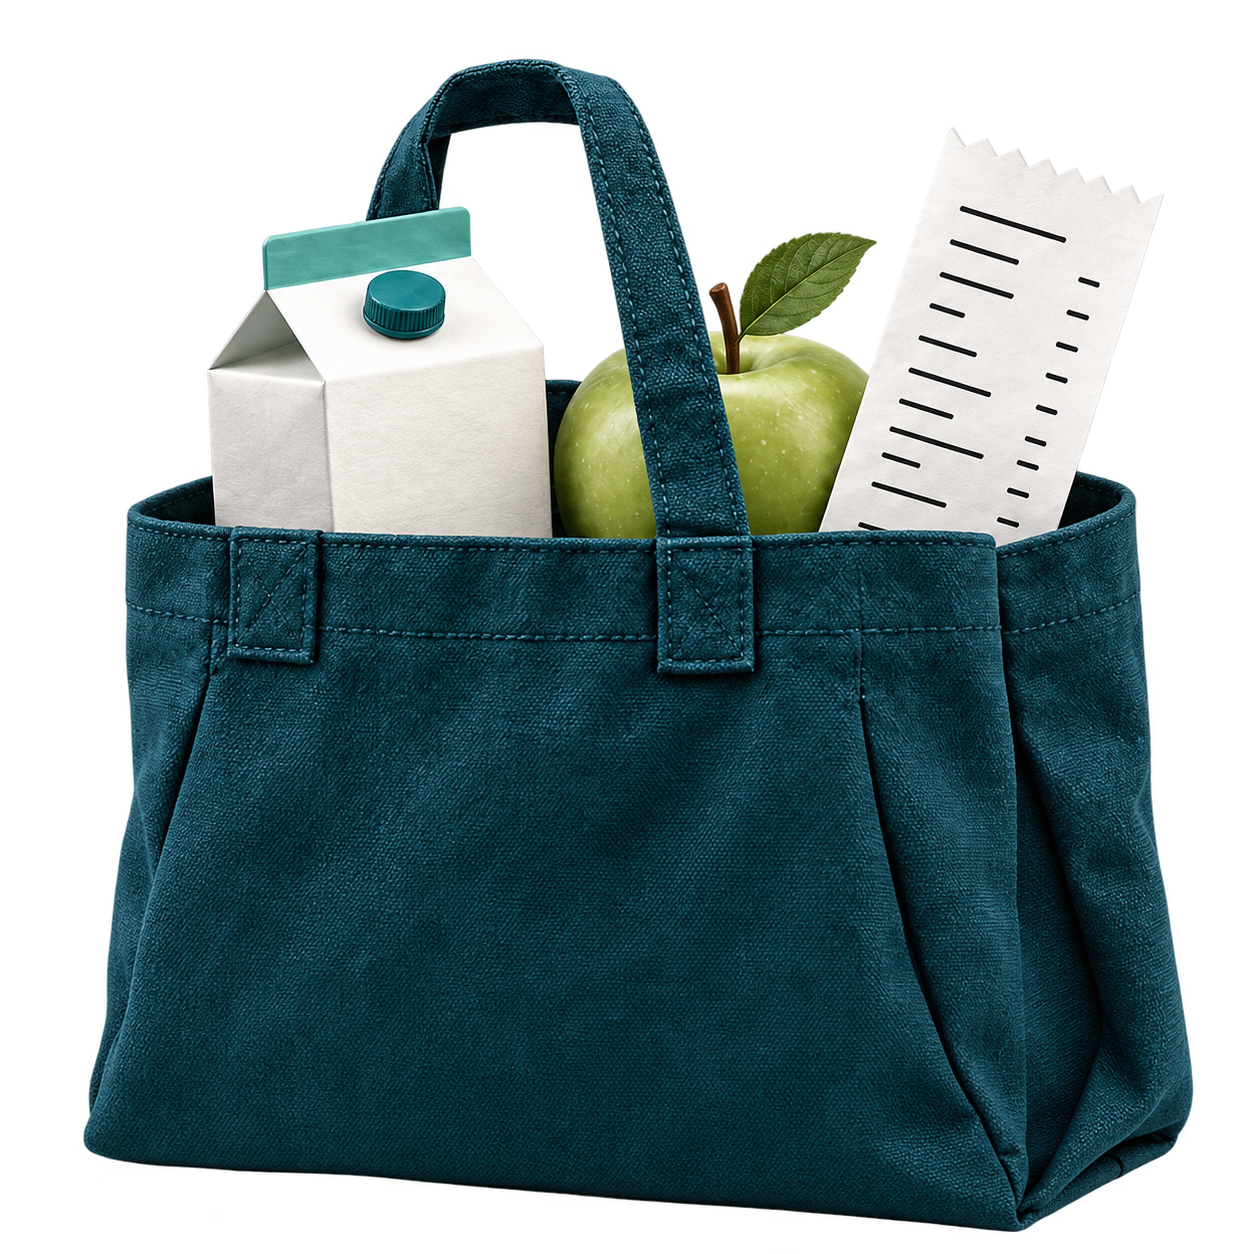
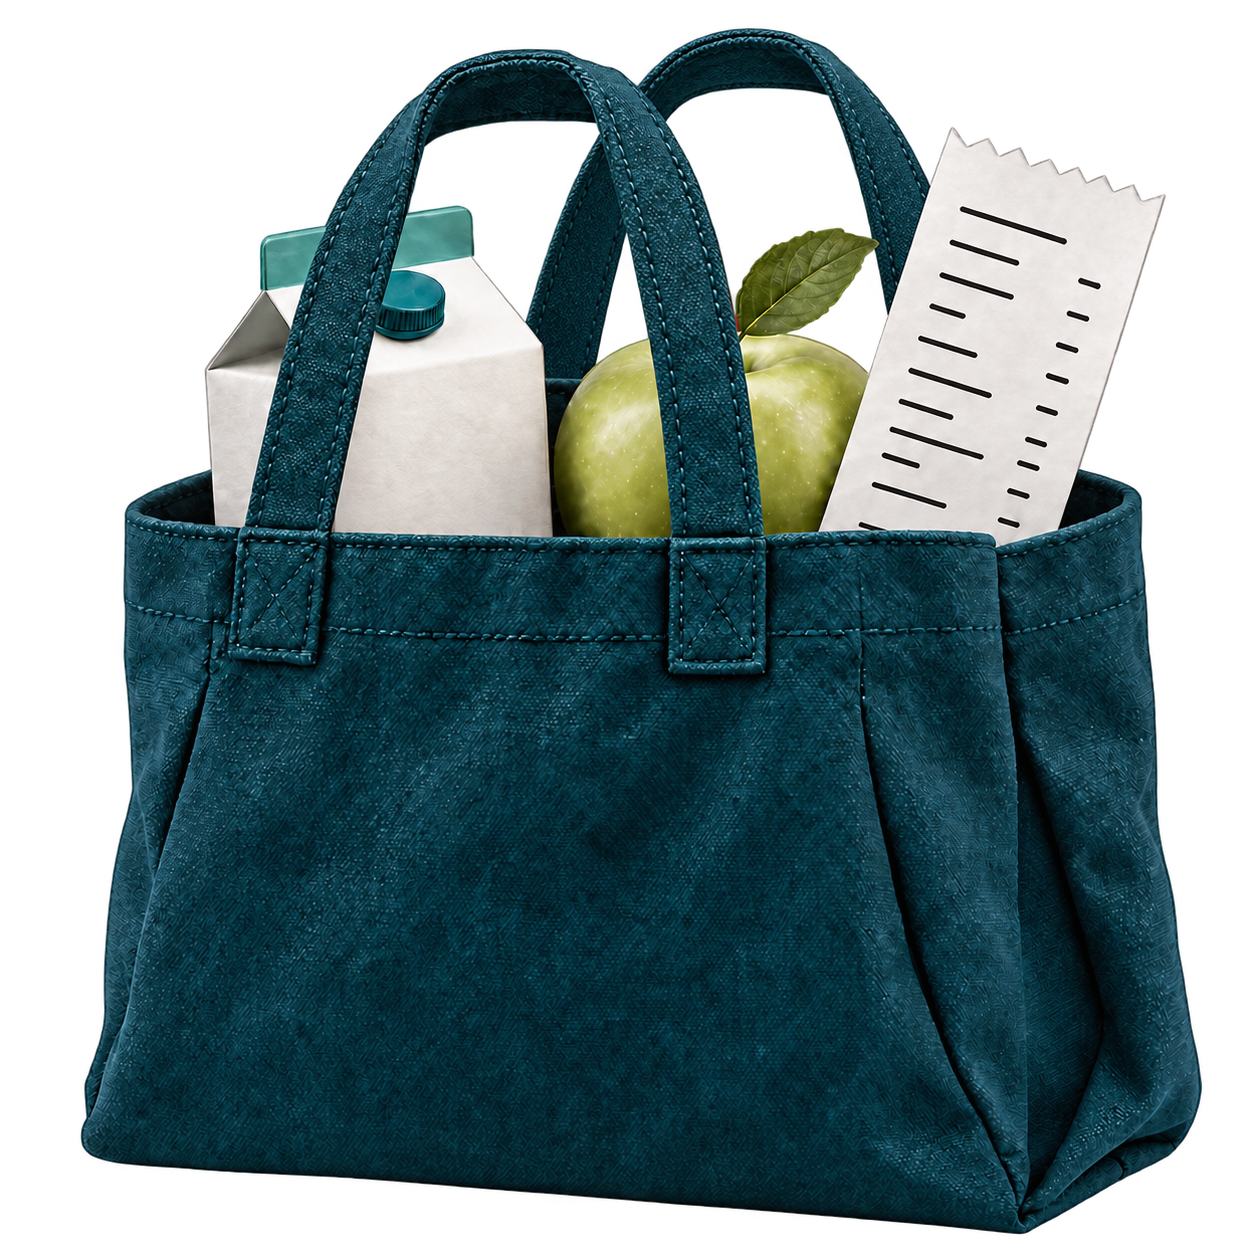
styling improvements

diff --git a/components/homepage/homepage-motion-controller.test.ts b/components/homepage/homepage-motion-controller.test.ts
@@ -2,6 +2,7 @@ import assert from "node:assert/strict";
 import test from "node:test";
 
 import { mountHomepageMotion } from "./homepage-motion-controller";
+import { mountHomepageNavigation } from "./homepage-navigation";
 
 class FakeStyle {
   values = new Map<string, string>();
@@ -219,4 +220,128 @@ test("cleanup removes hidden styles, animations, observers, listeners and schedu
   assert.equal(f.desktopMedia.listeners.size, 0);
   assert.equal(f.reducedMotion.listeners.size, 0);
   assert.ok(f.observers.every((observer) => observer.disconnected));
+});
+
+function navigationFixture(reduced = false, initialTabindex?: string) {
+  const media = new FakeMedia(reduced);
+  const listeners = new Map<string, () => void>();
+  const frames = new Map<number, FrameRequestCallback>();
+  const clicks = new Map<string, (event: MouseEvent) => void>();
+  const attributes = new Map<string, string>();
+  if (initialTabindex !== undefined) attributes.set("tabindex", initialTabindex);
+  let focused = false;
+  let nextFrame = 0;
+  let y = 0;
+  const target = {
+    getBoundingClientRect: () => ({ top: 1000 - y }),
+    getAttribute: (name: string) => attributes.get(name) ?? null,
+    setAttribute: (name: string, value: string) => attributes.set(name, value),
+    removeAttribute: (name: string) => attributes.delete(name),
+    focus: (options: FocusOptions) => { assert.equal(options.preventScroll, true); focused = true; },
+  };
+  const link = {
+    getAttribute: () => "#tracking",
+    addEventListener: (type: string, callback: (event: MouseEvent) => void) => clicks.set(type, callback),
+    removeEventListener: (type: string) => clicks.delete(type),
+  };
+  const location = { hash: "" };
+  const state = { preserved: true };
+  const view = {
+    get scrollY() { return y; }, scrollX: 0,
+    scrollTo: (options: ScrollToOptions) => { assert.equal(options.behavior, "instant"); y = options.top ?? 0; },
+    matchMedia: () => media,
+    getComputedStyle: () => ({ scrollMarginTop: "24px" }),
+    requestAnimationFrame: (callback: FrameRequestCallback) => { frames.set(++nextFrame, callback); return nextFrame; },
+    cancelAnimationFrame: (id: number) => frames.delete(id),
+    addEventListener: (type: string, callback: () => void) => listeners.set(type, callback),
+    removeEventListener: (type: string) => listeners.delete(type),
+    location,
+    history: { state, pushState: (saved: unknown, _title: string, hash: string) => { assert.equal(saved, state); location.hash = hash; } },
+  };
+  const root = { querySelectorAll: () => [link], querySelector: () => target };
+  const cleanup = mountHomepageNavigation(root as unknown as HTMLElement, view as unknown as Window);
+  const click = (overrides = {}) => {
+    let prevented = false;
+    clicks.get("click")?.({ button: 0, currentTarget: link, preventDefault: () => { prevented = true; }, ...overrides } as unknown as MouseEvent);
+    return prevented;
+  };
+  const tick = (timestamp: number) => {
+    const current = Array.from(frames.values());
+    frames.clear();
+    current.forEach(callback => callback(timestamp));
+  };
+  return { click, tick, cleanup, media, listeners, frames, clicks, attributes, location, get y() { return y; }, get focused() { return focused; } };
+}
+
+test("navigation scrolls through intermediate positions and preserves hash, margin and keyboard destination", () => {
+  const f = navigationFixture();
+  assert.equal(f.click(), true);
+  assert.equal(f.location.hash, "#tracking");
+  f.tick(0);
+  assert.equal(f.y, 0);
+  f.tick(400);
+  assert.ok(f.y > 0 && f.y < 976);
+  assert.equal(f.focused, false);
+  f.tick(800);
+  assert.equal(f.y, 976);
+  assert.equal(f.focused, true);
+  assert.equal(f.attributes.get("tabindex"), "-1");
+  assert.equal(f.frames.size, 0);
+  f.cleanup();
+  assert.equal(f.attributes.has("tabindex"), false);
+});
+
+test("reduced motion navigates immediately, including preference changes during scrolling", () => {
+  for (const reduced of [true, false]) {
+    const f = navigationFixture(reduced);
+    f.click();
+    if (!reduced) { f.tick(0); f.tick(200); f.media.change(true); }
+    assert.equal(f.y, 976);
+    assert.equal(f.focused, true);
+    assert.equal(f.frames.size, 0);
+    f.cleanup();
+  }
+});
+
+test("modified and already-handled navigation clicks retain native behavior", () => {
+  const f = navigationFixture();
+  for (const overrides of [{ button: 1 }, { ctrlKey: true }, { metaKey: true }, { shiftKey: true }, { altKey: true }, { defaultPrevented: true }]) {
+    assert.equal(f.click(overrides), false);
+    assert.equal(f.frames.size, 0);
+    assert.equal(f.location.hash, "");
+  }
+  f.cleanup();
+});
+
+test("manual input and history cancel navigation without stealing focus", () => {
+  for (const input of ["wheel", "touchstart", "pointerdown", "keydown", "popstate"]) {
+    const f = navigationFixture();
+    f.click(); f.tick(0); f.tick(100);
+    const stoppedAt = f.y;
+    f.listeners.get(input)?.();
+    f.tick(800);
+    assert.equal(f.y, stoppedAt);
+    assert.equal(f.focused, false);
+    assert.equal(f.frames.size, 0);
+    f.cleanup();
+  }
+});
+
+test("navigation cleanup cancels frames and removes listeners", () => {
+  const f = navigationFixture();
+  f.click();
+  f.cleanup();
+  assert.equal(f.frames.size, 0);
+  assert.equal(f.listeners.size, 0);
+  assert.equal(f.clicks.size, 0);
+  assert.equal(f.media.listeners.size, 0);
+});
+
+test("navigation cleanup restores an existing target tabindex", () => {
+  const f = navigationFixture(false, "0");
+  f.click(); f.tick(0); f.tick(800);
+  assert.equal(f.focused, true);
+  assert.equal(f.attributes.get("tabindex"), "-1");
+  f.cleanup();
+  assert.equal(f.attributes.get("tabindex"), "0");
 });

diff --git a/components/homepage/homepage-navigation.ts b/components/homepage/homepage-navigation.ts
@@ -1,0 +1,84 @@
+type NavigationWindow = Pick<Window,
+  "scrollY" | "scrollX" | "scrollTo" | "matchMedia" | "getComputedStyle" |
+  "requestAnimationFrame" | "cancelAnimationFrame" | "addEventListener" |
+  "removeEventListener" | "history" | "location"
+>;
+
+/** Animate explicit navigation clicks only; ordinary scrolling remains native. */
+export function mountHomepageNavigation(root: HTMLElement, view: NavigationWindow) {
+  const links = Array.from(root.querySelectorAll<HTMLAnchorElement>('.home-nav a[href^="#"]'));
+  const reducedMotion = view.matchMedia("(prefers-reduced-motion: reduce)");
+  const focusTargets = new Map<HTMLElement, string | null>();
+  let frame: number | undefined;
+  let destination: { target: HTMLElement; top: number } | undefined;
+
+  const cancel = () => {
+    if (frame !== undefined) view.cancelAnimationFrame(frame);
+    frame = undefined;
+    destination = undefined;
+  };
+
+  const finish = () => {
+    if (!destination) return;
+    const { target } = destination;
+    destination = undefined;
+    frame = undefined;
+    // Match native anchor navigation's keyboard destination without another scroll.
+    if (!focusTargets.has(target)) focusTargets.set(target, target.getAttribute("tabindex"));
+    target.setAttribute("tabindex", "-1");
+    target.focus({ preventScroll: true });
+  };
+
+  const navigate = (event: MouseEvent) => {
+    if (event.defaultPrevented || event.button !== 0 || event.metaKey || event.ctrlKey || event.shiftKey || event.altKey) return;
+    const link = event.currentTarget as HTMLAnchorElement;
+    const hash = link.getAttribute("href");
+    if (!hash) return;
+    const target = root.querySelector<HTMLElement>(hash);
+    if (!target) return;
+    event.preventDefault();
+    cancel();
+    const start = view.scrollY;
+    const margin = parseFloat(view.getComputedStyle(target).scrollMarginTop) || 0;
+    const top = Math.max(0, start + target.getBoundingClientRect().top - margin);
+    destination = { target, top };
+    if (view.location.hash !== hash) view.history.pushState(view.history.state, "", hash);
+    if (reducedMotion.matches) {
+      view.scrollTo({ top, left: view.scrollX, behavior: "instant" });
+      finish();
+      return;
+    }
+    let started: number | undefined;
+    const step = (timestamp: number) => {
+      started ??= timestamp;
+      const progress = Math.min(1, (timestamp - started) / 800);
+      const eased = 1 - Math.pow(1 - progress, 3);
+      view.scrollTo({ top: start + (top - start) * eased, left: view.scrollX, behavior: "instant" });
+      if (progress < 1) frame = view.requestAnimationFrame(step);
+      else finish();
+    };
+    frame = view.requestAnimationFrame(step);
+  };
+
+  const changePreference = () => {
+    if (!reducedMotion.matches || !destination) return;
+    if (frame !== undefined) view.cancelAnimationFrame(frame);
+    view.scrollTo({ top: destination.top, left: view.scrollX, behavior: "instant" });
+    finish();
+  };
+  const interruptions = ["wheel", "touchstart", "pointerdown", "keydown", "popstate"] as const;
+  links.forEach(link => link.addEventListener("click", navigate));
+  interruptions.forEach(type => view.addEventListener(type, cancel, { passive: true }));
+  reducedMotion.addEventListener("change", changePreference);
+
+  return () => {
+    cancel();
+    links.forEach(link => link.removeEventListener("click", navigate));
+    interruptions.forEach(type => view.removeEventListener(type, cancel));
+    reducedMotion.removeEventListener("change", changePreference);
+    focusTargets.forEach((tabindex, target) => {
+      if (tabindex === null) target.removeAttribute("tabindex");
+      else target.setAttribute("tabindex", tabindex);
+    });
+  };
+}

diff --git a/components/homepage/homepage-parts.tsx b/components/homepage/homepage-parts.tsx
@@ -3,6 +3,7 @@ import Link from "next/link";
 import { ArrowRight, ChevronRight } from "lucide-react";
 
 import { buttonVariants } from "@/components/ui/button";
+import trackingStillLife from "@/public/homepage/tracking-still-life.png";
 
 import graphStyles from "./homepage-graph.module.css";
 
@@ -66,7 +67,7 @@ export function HomepageScene({ kind }: { kind: keyof typeof scenes }) {
       <div className="home-art" data-reveal data-delay="100">
         <div data-parallax="1">
           <Image
-            src={`/homepage/${kind}-still-life.png`}
+            src={kind === "tracking" ? trackingStillLife : `/homepage/${kind}-still-life.png`}
             alt=""
             width={1280}
             height={1280}

diff --git a/components/homepage/homepage-motion.tsx b/components/homepage/homepage-motion.tsx
@@ -3,12 +3,19 @@
 import { useLayoutEffect } from "react";
 
 import { mountHomepageMotion } from "./homepage-motion-controller";
+import { mountHomepageNavigation } from "./homepage-navigation";
 
 /** Progressive enhancement: server-rendered content is visible before and without JS. */
 export function HomepageMotion() {
   useLayoutEffect(() => {
     const root = document.getElementById("homepage");
-    if (root) return mountHomepageMotion(root, window);
+    if (!root) return;
+    const stopMotion = mountHomepageMotion(root, window);
+    const stopNavigation = mountHomepageNavigation(root, window);
+    return () => {
+      stopNavigation();
+      stopMotion();
+    };
   }, []);
 
   return null;

diff --git a/app/globals.css b/app/globals.css
@@ -206,6 +206,10 @@
 }
 
 /* The public homepage has a fixed palette, independent of account theme. */
+html:has(.homepage) {
+  scroll-behavior: smooth;
+}
+
 .homepage {
   --home-dark: #060c14;
   --home-light: #edf2f7;

diff --git a/docs/HOMEPAGE_ARTWORK.md b/docs/HOMEPAGE_ARTWORK.md
@@ -28,6 +28,34 @@ Extract and faithfully reproduce the object group alone, centered in a tightly f
 Remove EVERY heading, body text, logo, button, navigation element and interface panel. Remove ALL webpage background, ground plane, page colors and backdrop. Actual alpha transparency, not a checkerboard printed into the image. Receipt markings may be simple abstract lines; no legible words, branding or numbers on objects. Preserve photorealistic texture, studio lighting, realistic shading on objects and delicate transparent contact shadows. No added props, no redesign, no gradients/backdrop, no UI. Match the reference object's colors and framing.
 ```
 
+The tracking asset's handle was subsequently repaired with the built-in Image Gen
+tool using the shipped PNG as the edit target. The replacement preserves its
+square composition and transparent alpha background, with a 1254×1254 output.
+Both legs of the front woven
+handle now connect continuously to the existing stitched attachment tabs.
+The tracking image uses a static import so its generated URL changes with the
+file contents, refreshing cached optimized copies after artwork repairs.
+
+Repair prompt:
+
+```text
+Edit target: the attached transparent production PNG public/homepage/tracking-still-life.png.
+Make a targeted photorealistic repair to the DARK TEAL GROCERY BAG'S HANDLE ONLY. The existing handle is malformed: its left leg ends behind the milk carton and does not connect to the left stitched attachment tab on the front rim. Rebuild the front carry handle as one coherent, physically plausible inverted-U loop of flat woven teal webbing. BOTH strap legs must be visibly continuous from the top arch down to their respective existing stitched rectangular tabs at the left and right of the bag's front rim. The left leg must reach the left front attachment tab; the right leg must reach the right front attachment tab. Keep the same strap width on both sides, natural perspective, clean sewn edges, and believable bends. No broken or floating ends, no twists, no fused fabric bridge, no intersection through the groceries. The handle can pass in front of the groceries as a real upright tote handle would; maintain clearly understandable depth and attachments.
+Preserve the bag body, its dark teal woven fabric and folds, camera angle, overall scale, white milk carton with mint top and teal cap, green apple, receipt, their arrangement, studio lighting, and composition as closely as possible. No new objects, branding, text, logos or interface panels. Keep the whole bag and handle within the frame with transparent breathing room. Preserve the original square 1280x1280 framing and a TRUE transparent alpha background, including empty space inside the handle. Do not add a ground plane, solid background, checkerboard pattern, or surrounding glow. Realistic shading only on the objects.
+```
+
+A second edit added a matching rear inverted-U handle behind the groceries,
+with distinct front and rear arches and natural occlusion at the back rim.
+The original repaired front handle remains attached to both front tabs.
+
+Rear-handle prompt:
+
+```text
+Edit target: attached CashContour tracking still-life PNG, a dark teal woven grocery tote with a white milk carton, green apple and receipt on a transparent background.
+Add ONE matching carry handle attached to the OTHER side of the bag: the BACK rim. The bag should have two separate, physically plausible tote handles: preserve the existing front inverted-U handle exactly, and add a rear inverted-U handle made from the same dark teal flat woven webbing. The rear handle must sit in a plane behind the milk carton, apple and receipt, with its two ends sewn into opposite positions on the rear rim. Its lower legs should be naturally occluded by the groceries where appropriate. Its upper arch should remain visibly distinct from the front arch, slightly higher and offset toward the right in this camera perspective, enough separation to clearly read as two handles, without fusing or crossing unnaturally. Use consistent width, woven texture, clean sewn edges, correct perspective and realistic lighting. No floating ends, loops attached to the side walls, extra third handle, duplicate groceries, twisted straps or impossible fabric connections.
+Preserve the existing front handle, bag body, folds, stitched front tabs, groceries, receipt markings, camera angle, scale, overall composition and colors as closely as possible. Keep everything fully inside the square frame with small transparent breathing room. Genuine alpha transparency, including empty areas inside and between handles. No background, ground plane, text, logo, interface, checkerboard or surrounding glow. Only add the rear handle; do not redesign the other objects.
+```
+
 ## planning
 
 Asset: `public/homepage/planning-still-life.png`

diff --git a/docs/DESIGN_SYSTEM.md b/docs/DESIGN_SYSTEM.md
@@ -224,7 +224,11 @@ Rules:
   the existing demo Insights view. Get started and Sign in open `/login`, Try
   demo opens `/demo`, and feature exploration opens the corresponding demo view.
   How it works targets tracking; header Insights targets
-  the Insights section.
+  the Insights section. These two navigation links use an 800ms eased scroll,
+  with immediate scrolling when reduced motion is preferred. Manual scroll,
+  touch, pointer, keyboard and history navigation cancel an active scroll.
+  Preserve hash history and move keyboard focus to the destination on completion;
+  without JavaScript the links remain native anchors.
 - A dedicated client motion component progressively enhances server-rendered
   content. Content already visible at hydration stays in place; prepare offscreen
   headings, copy blocks, artwork and previews before they enter view, then reveal

diff --git a/docs/PRODUCT_SPEC.md b/docs/PRODUCT_SPEC.md
@@ -58,7 +58,8 @@ simpler than a full accounting or budgeting suite.
 - Try demo opens `/demo`; Explore transactions, Explore planned items and Explore
   Insights open `/demo?view=transactions|planned|insights` respectively. The
   Insights preview links also open demo Insights. How it works scrolls to
-  tracking; header Insights scrolls to the Insights section.
+  tracking; header Insights scrolls to the Insights section. These anchors use
+  smooth scrolling unless reduced motion is preferred.
 - The homepage uses a fixed dark/off-white/mint palette independently of saved
   app theme preferences and has no theme toggle. App and demo theme controls
   retain their existing behavior.
